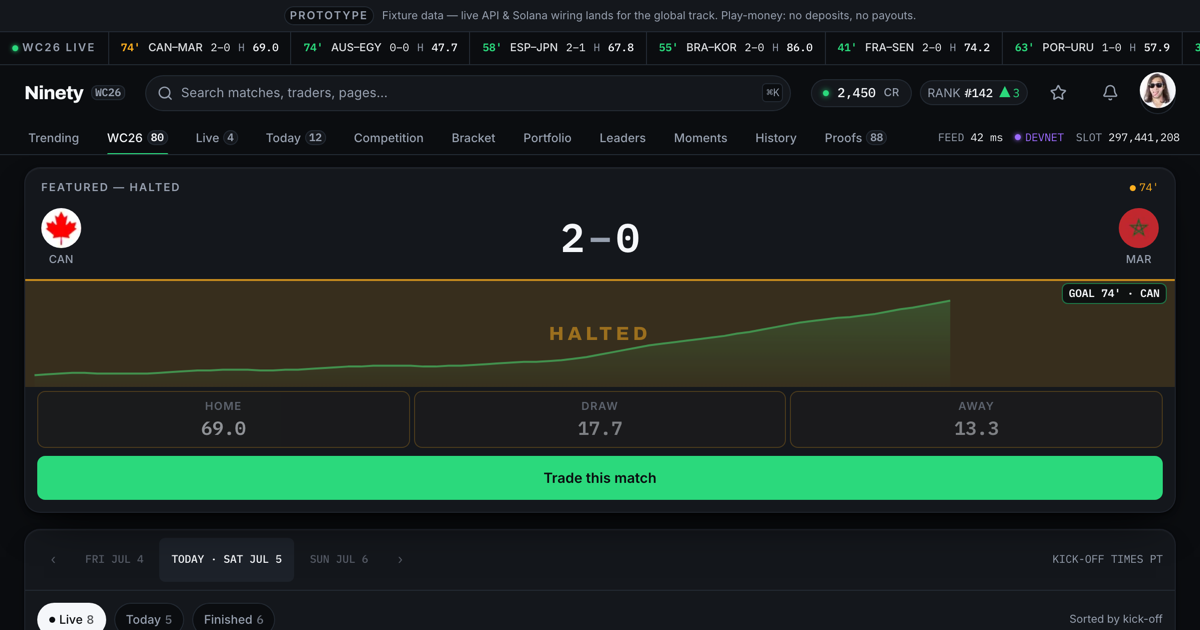
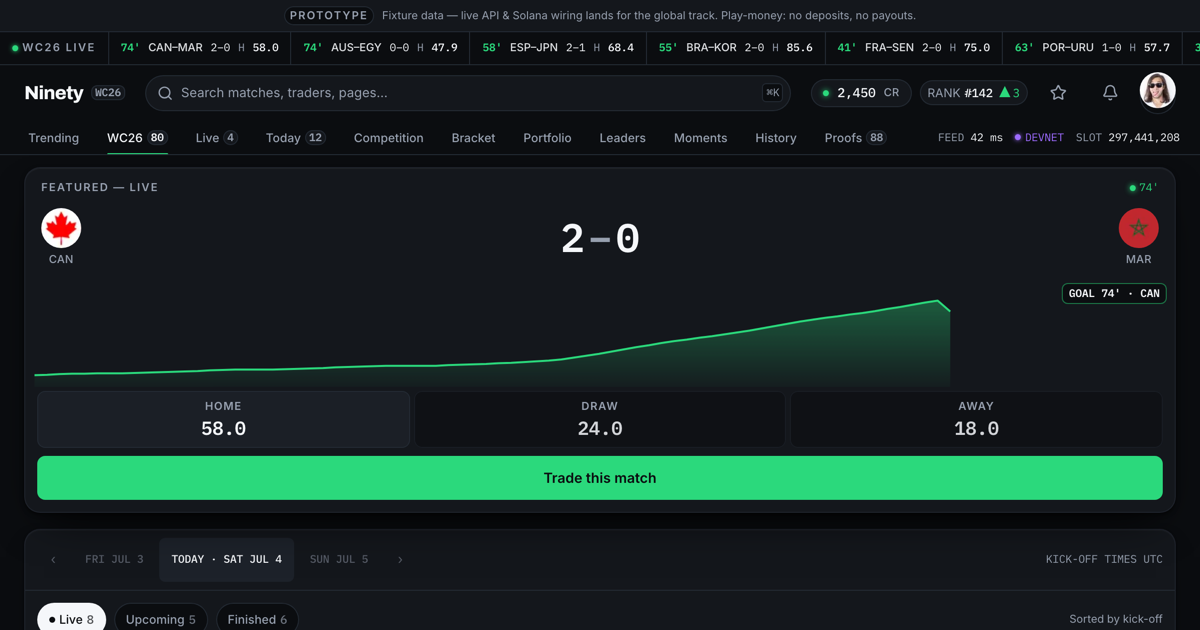
fix(web): og card recaptured post-fixes (date strip, UTC label, one-universe board)
The first capture froze 'TODAY · SAT JUL 5 / KICK-OFF TIMES PT' — the exact
defects the board pass fixed — into the tweet unfurl. Counts bumped to include
this commit (126).

diff --git a/docs/SUBMISSION-FIELDS.md b/docs/SUBMISSION-FIELDS.md
@@ -10,7 +10,7 @@ Voice law: play-money only (price · trade · credits). Never bet/stake/odds/wag
 >
 > Then our proof-auditor found the sponsor's own settle path doesn't bind finality on-chain. So we fail-closed on purpose instead of shipping a forgeable settle.
 >
-> Play-money. 125 commits, 58 ADRs, 7 days. 🧵 _TODO_link
+> Play-money. 126 commits, 58 ADRs, 7 days. 🧵 _TODO_link
 
 **Shorter alt (< 280 chars):**
 
@@ -48,7 +48,7 @@ The product is one tight live loop: a TxLINE score event triggers a goal, the ma
 
 At full time the result is meant to settle on-chain by verifying a TxODDS cryptographic proof of the score, with no admin able to decide a result. Building it, we adversarially reviewed the settlement and found TxODDS's own sanctioned instruction (validate_stat_v2) does not bind finality on-chain — a permissionless caller could settle a wrong result with a genuine mid-match proof by selecting the batch. So settlement is fail-closed on purpose (SETTLEMENT_LIVE = false, an explicit revert), and we filed the finding back to the sponsor. We won't ship a settle we can prove is forgeable, even in play-money.
 
-Built in 7 days: 125 commits, 58 ADRs, 257 automated tests passing, 5/5 Anchor tests, TxLINE verified live on devnet.
+Built in 7 days: 126 commits, 58 ADRs, 257 automated tests passing, 5/5 Anchor tests, TxLINE verified live on devnet.
 ```
 
 **TxLINE / TxODDS endpoints used**

diff --git a/docs/BUILD-LOG.md b/docs/BUILD-LOG.md
@@ -86,7 +86,7 @@ answered. We will not ship a settle we can prove is forgeable — even in play-m
 ## 5. The count (verified, not estimated)
 
 ```
-git rev-list --count HEAD   → 125 commits
+git rev-list --count HEAD   → 126 commits
 ls docs/adr/*.md | wc -l    → 58 ADRs
 ```
 